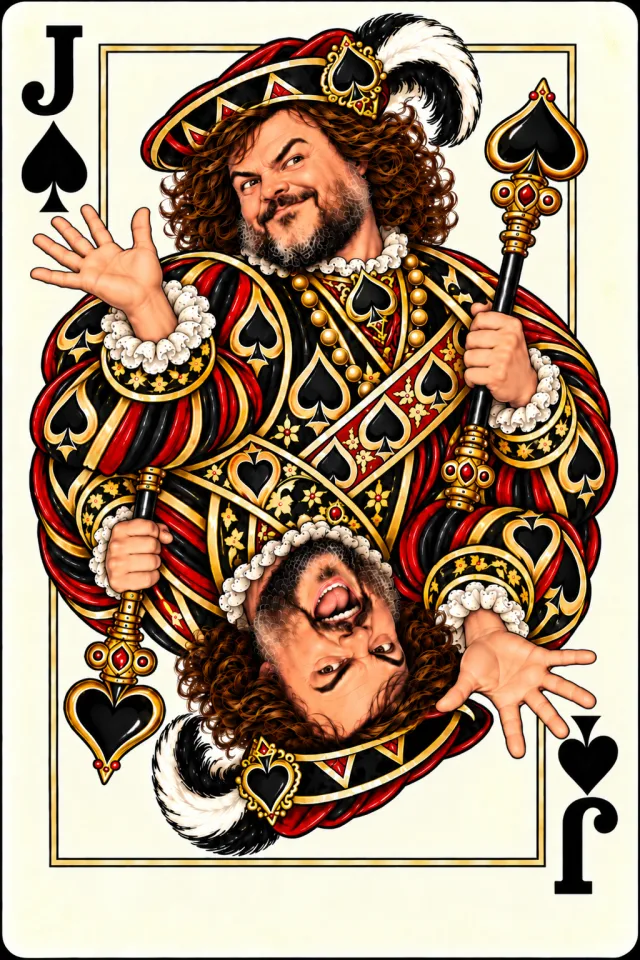
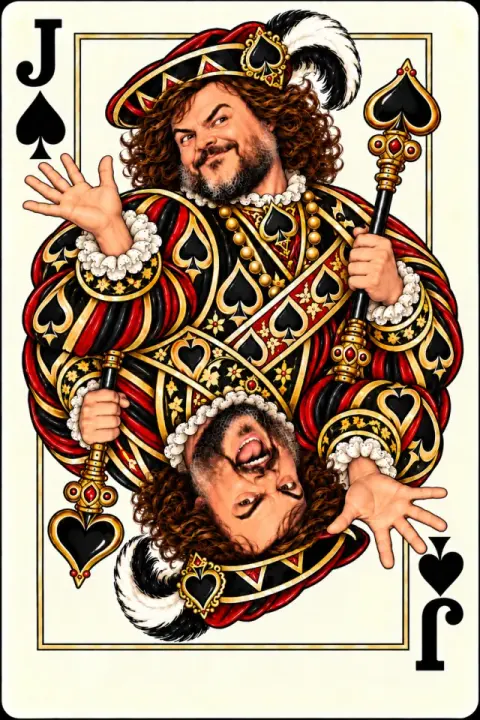
Lighter artwork (3.4MB → 1.6MB), built-in card shown until art loads, reaction back to 1.5s
- Cards/back 480px, dealer 600px, title 800px, pip face 256px, webp q76
- Uploaded art overlays the built-in card and fades in when downloaded (no empty frames)

Claude-Session: https://claude.ai/code/session_017pVmRnB77Nkhuqvoh3oEuC

diff --git a/src/main.js b/src/main.js
@@ -126,15 +126,11 @@ function cardEl(card, faceDown = false) {
   if (faceDown) {
     div.classList.add('back');
     div.setAttribute('aria-label', 'face-down card');
+    const medal = facePip('S');
+    medal.classList.add('medallion');
+    div.appendChild(medal);
     const url = artUrl('BACK');
-    if (url) {
-      div.classList.add('has-art');
-      div.appendChild(imgEl(url, ''));
-    } else {
-      const medal = facePip('S');
-      medal.classList.add('medallion');
-      div.appendChild(medal);
-    }
+    if (url) overlayArt(div, url, '', 'has-art');
     return div;
   }
 
@@ -145,14 +141,6 @@ function cardEl(card, faceDown = false) {
 
   const frame = document.createElement('div');
   frame.className = 'frame';
-
-  const own = artUrl(`${rank}${suit}`);
-  if (own) {
-    // Uploaded art is a complete card (indices included), so it fills the whole card.
-    div.classList.add('full-art');
-    div.appendChild(imgEl(own, `${rank}${sym}`));
-    return div;
-  }
 
   if (rank === 'J' || rank === 'Q' || rank === 'K') {
     div.classList.add('face');
@@ -190,7 +178,23 @@ function cardEl(card, faceDown = false) {
     corner.innerHTML = `<span class="r">${rank}</span><span class="s">${sym}</span>`;
     div.appendChild(corner);
   }
+  // Uploaded art is a complete card (indices included). It sits on top of the built-in card and
+  // fades in once downloaded, so a slow connection shows a normal card instead of an empty frame.
+  const own = artUrl(`${rank}${suit}`);
+  if (own) overlayArt(div, own, `${rank}${sym}`, 'full-art');
   return div;
+}
+
+function overlayArt(div, url, alt, readyClass) {
+  const img = imgEl(url, alt);
+  img.classList.add('art-over');
+  const ready = () => {
+    img.classList.add('ready');
+    div.classList.add(readyClass);
+  };
+  if (img.complete && img.naturalWidth) ready();
+  else img.addEventListener('load', ready, { once: true });
+  div.appendChild(img);
 }
 
 function imgEl(src, alt) {

diff --git a/style.css b/style.css
@@ -684,7 +684,7 @@ dialog .btn { flex: 0 1 220px; }
   box-shadow: 0 0 0 3px var(--gold), 0 0 40px rgba(242, 198, 90, 0.55), 0 24px 50px rgba(0, 0, 0, 0.8);
   transform-origin: 50% 50%;
 }
-.reaction.play { animation: reaction 1s cubic-bezier(0.3, 0.7, 0.3, 1) forwards; }
+.reaction.play { animation: reaction 1.5s cubic-bezier(0.3, 0.7, 0.3, 1) forwards; }
 @keyframes reaction {
   0% {
     opacity: 0;
@@ -708,3 +708,18 @@ dialog .btn { flex: 0 1 220px; }
   }
 }
 @media (prefers-reduced-motion: reduce) { .reaction { display: none; } }
+
+/* uploaded card art sits over the built-in card and fades in once downloaded */
+.card > .art-over {
+  position: absolute;
+  inset: 0;
+  z-index: 3;
+  width: 100%;
+  height: 100%;
+  object-fit: cover;
+  border-radius: inherit;
+  opacity: 0;
+  transition: opacity 0.2s;
+}
+.card > .art-over.ready { opacity: 1; }
+.card.full-art .corner, .card.full-art .frame { visibility: hidden; }

diff --git a/docs/IMAGE-GUIDE.md b/docs/IMAGE-GUIDE.md
@@ -25,7 +25,7 @@
 
 ## 제목 로고 — 가로 3:2 (1536x1024)
 
-화면 맨 위 제목 자리 (가운데 부분만 보임). 게임에서는 최대 폭 1000px 로 줄여서 씁니다.
+화면 맨 위 제목 자리 (가운데 부분만 보임). 게임에서는 최대 폭 800px 로 줄여서 씁니다.
 
 ### `TITLE` · 제목 로고
 
@@ -35,7 +35,7 @@
 
 ## 그림 카드 (A·J·Q·K) — 세로 2:3 (1024x1536)
 
-그림 카드 한 장 전체 (모서리 숫자·무늬까지 그림에 포함). 게임에서는 최대 폭 640px 로 줄여서 씁니다.
+그림 카드 한 장 전체 (모서리 숫자·무늬까지 그림에 포함). 게임에서는 최대 폭 480px 로 줄여서 씁니다.
 
 ### `AS` · 스페이드 에이스
 
@@ -135,7 +135,7 @@
 
 ## 카드 뒷면 — 세로 2:3 (1024x1536)
 
-뒤집힌 카드. 게임에서는 최대 폭 640px 로 줄여서 씁니다.
+뒤집힌 카드. 게임에서는 최대 폭 480px 로 줄여서 씁니다.
 
 ### `BACK` · 카드 뒷면
 
@@ -145,7 +145,7 @@
 
 ## 딜러 표정 — 정사각형 1:1 (1024x1024)
 
-제목 옆 네모난 딜러 초상 (정사각형 그대로 전부 보임). 게임에서는 최대 폭 768px 로 줄여서 씁니다.
+제목 옆 네모난 딜러 초상 (정사각형 그대로 전부 보임). 게임에서는 최대 폭 600px 로 줄여서 씁니다.
 
 ### `DEALER_IDLE` · 딜러 대기 — 느긋한 미소
 
@@ -191,7 +191,7 @@
 
 ## 무늬 속 얼굴 — 정사각형 1:1 (1024x1024)
 
-숫자 카드의 무늬 한두 개 안에 작게. 게임에서는 최대 폭 320px 로 줄여서 씁니다.
+숫자 카드의 무늬 한두 개 안에 작게. 게임에서는 최대 폭 256px 로 줄여서 씁니다.
 
 ### `FACE` · 무늬 속 얼굴
 
